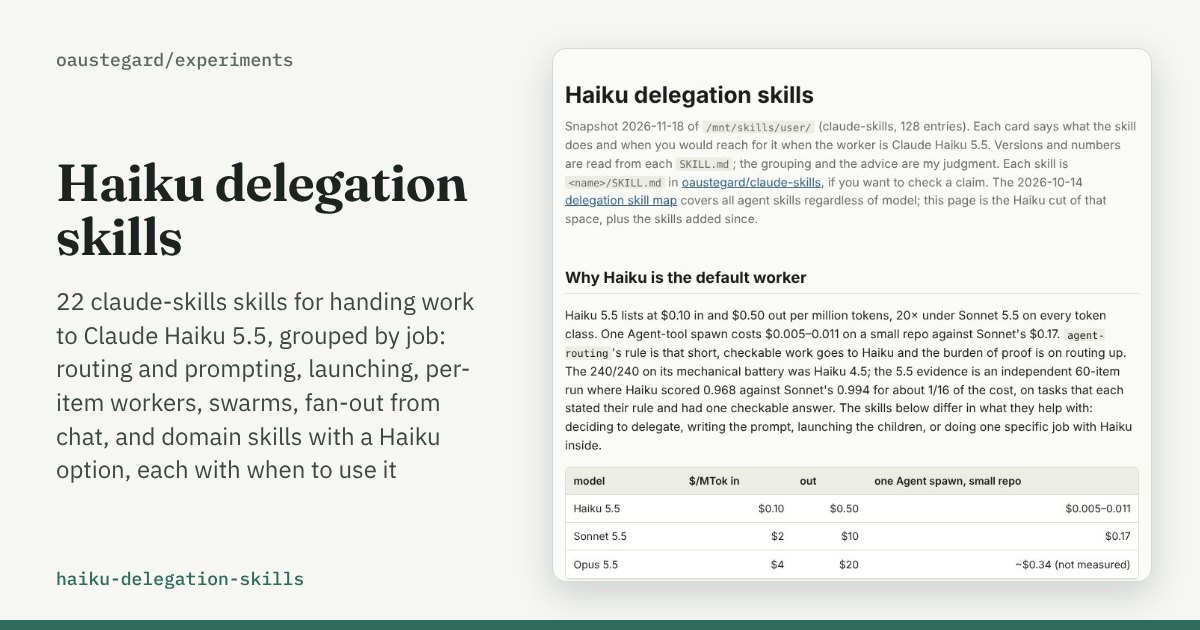
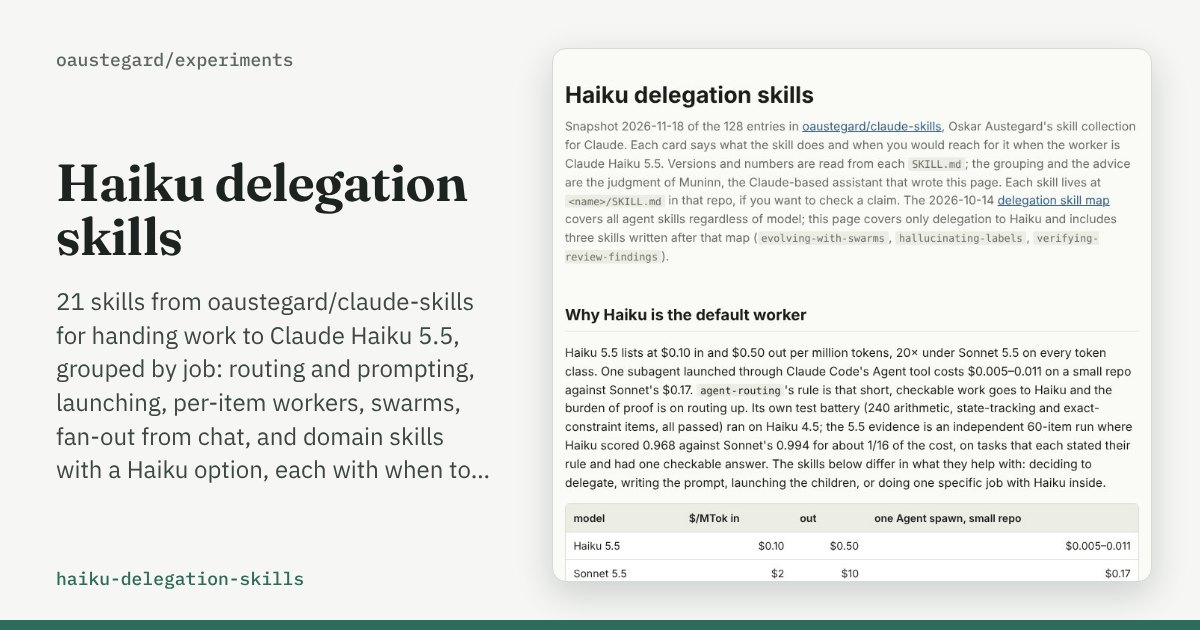
haiku-delegation-skills: fixes from a newcomer read
Define Jev, Muninn, the Workflow tool, effort levels and the benchmark
behind each number; fold the deprecated orchestrating-agents alias into
a sentence (21 skills); note tiling-tree's Sonnet pin has no override.
README: drop the stale duplicate bm25-proptest index row.

no-invariant: static reference page, no registry member added

Claude-Session: https://claude.ai/code/session_01P6FqasHxdypdWxieiroHLK

Changed region(s): [[0.4625, 0.4825, 0.9558, 0.9349], [0.4625, 0.181, 0.9558, 0.4524], [0.0308, 0.4524, 0.4008, 0.7841]]

diff --git a/haiku-delegation-skills/index.html b/haiku-delegation-skills/index.html
@@ -44,10 +44,10 @@ footer{margin-top:3rem;color:var(--mut);font-size:.85rem}
 <body>
 <main>
 <h1>Haiku delegation skills</h1>
-<p class="sub">Snapshot 2026-11-18 of <code>/mnt/skills/user/</code> (claude-skills, 128 entries). Each card says what the skill does and when you would reach for it when the worker is Claude Haiku 5.5. Versions and numbers are read from each <code>SKILL.md</code>; the grouping and the advice are my judgment. Each skill is <code>&lt;name&gt;/SKILL.md</code> in <a href="https://github.com/oaustegard/claude-skills">oaustegard/claude-skills</a>, if you want to check a claim. The 2026-10-14 <a href="../delegation-skill-map/">delegation skill map</a> covers all agent skills regardless of model; this page is the Haiku cut of that space, plus the skills added since.</p>
+<p class="sub">Snapshot 2026-11-18 of the 128 entries in <a href="https://github.com/oaustegard/claude-skills">oaustegard/claude-skills</a>, Oskar Austegard's skill collection for Claude. Each card says what the skill does and when you would reach for it when the worker is Claude Haiku 5.5. Versions and numbers are read from each <code>SKILL.md</code>; the grouping and the advice are the judgment of Muninn, the Claude-based assistant that wrote this page. Each skill lives at <code>&lt;name&gt;/SKILL.md</code> in that repo, if you want to check a claim. The 2026-10-14 <a href="../delegation-skill-map/">delegation skill map</a> covers all agent skills regardless of model; this page covers only delegation to Haiku and includes three skills written after that map (<code>evolving-with-swarms</code>, <code>hallucinating-labels</code>, <code>verifying-review-findings</code>).</p>
 
 <h2>Why Haiku is the default worker</h2>
-<p>Haiku 5.5 lists at $0.10 in and $0.50 out per million tokens, 20× under Sonnet 5.5 on every token class. One Agent-tool spawn costs $0.005–0.011 on a small repo against Sonnet's $0.17. <code>agent-routing</code>'s rule is that short, checkable work goes to Haiku and the burden of proof is on routing up. The 240/240 on its mechanical battery was Haiku 4.5; the 5.5 evidence is an independent 60-item run where Haiku scored 0.968 against Sonnet's 0.994 for about 1/16 of the cost, on tasks that each stated their rule and had one checkable answer. The skills below differ in what they help with: deciding to delegate, writing the prompt, launching the children, or doing one specific job with Haiku inside.</p>
+<p>Haiku 5.5 lists at $0.10 in and $0.50 out per million tokens, 20× under Sonnet 5.5 on every token class. One subagent launched through Claude Code's Agent tool costs $0.005–0.011 on a small repo against Sonnet's $0.17. <code>agent-routing</code>'s rule is that short, checkable work goes to Haiku and the burden of proof is on routing up. Its own test battery (240 arithmetic, state-tracking and exact-constraint items, all passed) ran on Haiku 4.5; the 5.5 evidence is an independent 60-item run where Haiku scored 0.968 against Sonnet's 0.994 for about 1/16 of the cost, on tasks that each stated their rule and had one checkable answer. The skills below differ in what they help with: deciding to delegate, writing the prompt, launching the children, or doing one specific job with Haiku inside.</p>
 
 <div class="scroll"><table>
 <thead><tr><th>model</th><th class="n">$/MTok in</th><th class="n">out</th><th class="n">one Agent spawn, small repo</th></tr></thead>
@@ -58,9 +58,9 @@ footer{margin-top:3rem;color:var(--mut);font-size:.85rem}
 </tbody></table></div>
 
 <h2>Which one to open</h2>
-<p class="lede">Take the first yes. Jev is TypeSafe's decision model, reached through the Muninn <code>decide</code> tool in these sessions; it returns a probability per option in about a second.</p>
+<p class="lede">Take the first yes. Jev is a small decision model from TypeSafe that returns a probability for each option in 0.1–0.3 s; Oskar's sessions reach it through the <code>decide</code> tool of Muninn, his memory server.</p>
 <ol class="path">
-<li>One classify, route, yes/no or score call per item? Call Muninn <code>decide</code> (Jev) if it is listed; otherwise <code>deciding-with-confidence</code>. If the label set is too big to put in a prompt, <code>hallucinating-labels</code>.</li>
+<li>One classify, route, yes/no or score call per item? Call Jev if your session has a tool for it; otherwise <code>deciding-with-confidence</code>. If the label set is too big to put in a prompt, <code>hallucinating-labels</code>.</li>
 <li>Checking findings from a code review? <code>verifying-review-findings</code>.</li>
 <li>A program to improve against a numeric scorer on a small budget? <code>evolving-with-swarms</code>.</li>
 <li>Hundreds of failing tests and hours of runtime? <code>swarming-to-green</code>.</li>
@@ -79,7 +79,7 @@ footer{margin-top:3rem;color:var(--mut);font-size:.85rem}
 
 <article class="card"><header><h3>down-skilling</h3><span class="ver">1.7.1</span></header>
 <p>Turns Opus-level understanding of a task into a prompt Haiku can follow: rules, output schema and boundary examples.</p>
-<dl><dt>Use when</dt><dd>The output needs judgment (tone, relevance, moderation) and Haiku will run it many times. On 5.5 it starts from a bare prompt and adds one rule or one boundary example per miss on a 10–20 item test set, typically ending at 0–3 examples.</dd>
+<dl><dt>Use when</dt><dd>The output needs judgment (tone, relevance, moderation) and Haiku will run it many times. For Haiku 5.5 it starts from a bare prompt and adds one rule or one boundary example per miss on a 10–20 item test set, typically ending at 0–3 examples.</dd>
 <dt>Not for</dt><dd>Mechanically checkable output: write a verifier and retry instead. Don't instruct Haiku 5.5's thinking either, since it follows such instructions near 0% of the time.</dd></dl></article>
 
 <article class="card"><header><h3>writing-instructions</h3><span class="ver">0.3.0</span></header>
@@ -88,7 +88,7 @@ footer{margin-top:3rem;color:var(--mut);font-size:.85rem}
 <dt>Not for</dt><dd>Building a Haiku prompt from scratch with a test set; that is <code>down-skilling</code>.</dd></dl></article>
 
 <article class="card"><header><h3>reasoning-semiformally</h3><span class="ver">0.4.0</span></header>
-<p>Certificate-style reasoning for patch verification, fault localization and patch equivalence. Ships a separate <code>haiku.md</code> with full procedural templates and worked examples.</p>
+<p>Certificate-style reasoning for patch verification, fault localization and patch equivalence. Ships <code>reasoning-semiformally/haiku.md</code> with full procedural templates and worked examples.</p>
 <dl><dt>Use when</dt><dd>A Haiku worker has to reason about code across files: hand it <code>haiku.md</code> as part of its prompt.</dd>
 <dt>Not for</dt><dd>Choosing or launching the worker.</dd></dl></article>
 
@@ -98,13 +98,13 @@ footer{margin-top:3rem;color:var(--mut);font-size:.85rem}
 <div class="grid">
 
 <article class="card"><header><h3>dispatching-subagents</h3><span class="ver">0.3.0</span></header>
-<p>Chooses between the Agent tool, a Workflow script and headless <code>claude -p</code> children, and runs the headless fan-out from one background command with a cost cap, schema-verified outputs and resume.</p>
+<p>Chooses between the Agent tool, the Workflow tool (a JavaScript script that orchestrates many subagents) and headless <code>claude -p</code> children, and runs the headless fan-out from one background command with a cost cap, schema-verified outputs and resume.</p>
 <dl><dt>Use when</dt><dd>Ten or more independent tasks whose inputs fit in a prompt or file and whose output a script can check: judges, graders, extractors, per-file reviews. <code>--model haiku --concurrency 16 --max-usd 5</code> is the stock call; headless children are limited by RAM (about 210 MB each), while a Workflow runs only 2 at once on a 4-vCPU container.</dd>
 <dt>Not for</dt><dd>A child that needs MCP, the parent's transcript or a worktree (use the Agent tool), or work where task N+1 depends on N's answer.</dd></dl></article>
 
 <article class="card"><header><h3>delegating-with-context</h3><span class="ver">0.3.0</span></header>
-<p>Lets you write only the task in an Agent or <code>create_session</code> prompt; a PreToolUse hook pages the parent transcript through Jev and appends the chunks the task needs.</p>
-<dl><dt>Use when</dt><dd>Any Agent-tool delegation in a session that has history the child needs. Run <code>preview.py</code> first to see which chunks it would pass.</dd>
+<p>Lets you write only the task in an Agent or <code>create_session</code> prompt; a PreToolUse hook searches the parent transcript with Jev and appends the chunks the task needs.</p>
+<dl><dt>Use when</dt><dd>Any Agent-tool delegation in a session that has history the child needs. Run <code>scripts/preview.py</code> first to see which chunks it would pass.</dd>
 <dt>Not for</dt><dd>Headless children (no hooks run there) or claude.ai, where the hook is not wired.</dd></dl></article>
 
 </div>
@@ -114,14 +114,14 @@ footer{margin-top:3rem;color:var(--mut);font-size:.85rem}
 <div class="grid">
 
 <article class="card"><header><h3>deciding-with-confidence</h3><span class="ver">0.4.0</span></header>
-<p>Routes, triages, flags and rates text with a probability for every option, in the request and response shapes of OpenAI's Decisions API or TypeSafe's System One.</p>
+<p>Routes, triages, flags and rates text with a probability for every option, using the request and response formats of two hosted decision APIs (OpenAI's Decisions API and TypeSafe's System One), so code written for either works unchanged.</p>
 <dl><dt>Use when</dt><dd>Jev is not available and you need "which queue", "is this grounded", "how severe" with a calibrated confidence. Takes a file or the session transcript as evidence.</dd>
-<dt>Not for</dt><dd>Free-form extraction or explanations. When Jev is listed, call it: 0.1–0.3 s against ~0.7–4 s here.</dd></dl></article>
+<dt>Not for</dt><dd>Free-form extraction or explanations. When Jev is listed, call it: 0.1–0.3 s against ~0.7–4 s through this skill.</dd></dl></article>
 
 <article class="card"><header><h3>hallucinating-labels</h3><span class="ver">0.1.0</span></header>
 <p>Assigns items to a closed vocabulary too large for a prompt: a cheap model writes the label it expects, and an embedder snaps it to the nearest legal value.</p>
 <dl><dt>Use when</dt><dd>Taxonomies, tag lists or code lists of thousands of labels, or an enum a provider rejects. Batch 40 items per call.</dd>
-<dt>Not for</dt><dd>A vocabulary that fits in a prompt: shipping all 860 labels got the top label right 70.1% of the time against this skill's 56.4%.</dd></dl></article>
+<dt>Not for</dt><dd>A vocabulary that fits in a prompt: on the WANDS product-search benchmark, shipping all 860 labels got the top label right 70.1% of the time against this skill's 56.4%.</dd></dl></article>
 
 <article class="card"><header><h3>verifying-review-findings</h3><span class="ver">0.1.1</span></header>
 <p>Drops review findings whose quoted code is not in the file, then asks a decision model whether each remaining defect is real, with P(confirmed), severity and whether the fix works.</p>
@@ -135,19 +135,19 @@ footer{margin-top:3rem;color:var(--mut);font-size:.85rem}
 <div class="grid">
 
 <article class="card"><header><h3>evolving-with-swarms</h3><span class="ver">0.1.1</span></header>
-<p>OpenEvolve-style search on a budget: per round, eight Haiku proposers at <code>low</code> each suggest a 45-word idea and one writer at <code>medium</code> turns them into a program that a scorer ranks, all under a dollar cap.</p>
-<dl><dt>Use when</dt><dd>One program, a script that scores it, and a small budget. It reached 99% of reference for $0.013–0.50 where a Sonnet loop needed $0.32–1.02.</dd>
-<dt>Not for</dt><dd>When wall-clock time matters and $3+ is available: Sonnet reaches the same finals in 7–42 minutes, while the swarm runs at about $1 an hour.</dd></dl></article>
+<p>Evolutionary program search, like the open-source OpenEvolve, on a budget: per round, eight Haiku proposers at <code>low</code> effort each suggest a 45-word idea and one writer at <code>medium</code> effort turns them into a program that a scorer ranks, all under a dollar cap.</p>
+<dl><dt>Use when</dt><dd>One program, a script that scores it, and a small budget. It reached 99% of the best known score for $0.013–0.50 where a Sonnet loop needed $0.32–1.02.</dd>
+<dt>Not for</dt><dd>When wall-clock time matters and $3+ is available: Sonnet reaches the same final scores in 7–42 minutes, while the swarm runs at about $1 an hour.</dd></dl></article>
 
 <article class="card"><header><h3>swarming-to-green</h3><span class="ver">0.7.1</span></header>
-<p>Hundreds to thousands of Haiku coding workers drive a failing-test backlog to green: failures clustered by signature, one worktree per fix, a serial no-regression merge gate, an effort ladder, resume across restarts and federation over sibling sessions.</p>
+<p>Hundreds to thousands of Haiku coding workers drive a failing-test backlog to green: failures clustered by signature, one worktree per fix, a serial merge gate that rejects any fix that breaks another test, retries at higher effort, resume across restarts, and the option to spread the work over several cloud sessions.</p>
 <dl><dt>Use when</dt><dd>Machine-readable test output, hundreds of failures, and hours of runtime. Haiku solved clusters at $0.011–0.012 each against Sonnet's $0.075–0.087.</dd>
 <dt>Not for</dt><dd>A handful of failing tests, or fewer than ten tasks; use the Agent tool directly.</dd></dl></article>
 
 </div>
 
 <h2>Fan-out from claude.ai chat</h2>
-<p class="lede">Chat has no Agent tool, so these call the model APIs directly. <code>orchestrating-chat-agents</code> names Gemini (through Cloudflare) as the default engine in chat and its Claude path for when you want Claude output; that path and the skills built on it default to Sonnet 5.5, so pass a Haiku model id where the task fits the routing table. In Claude Code each one says to use the native runtime instead.</p>
+<p class="lede">Chat has no Agent tool, so these call the model APIs directly. <code>orchestrating-chat-agents</code> names Gemini (through Cloudflare) as the default engine in chat and its Claude path for when you want Claude output; that path and the skills built on it default to Sonnet 5.5, so pass a Haiku model id where the task fits the routing table. In Claude Code each one says to use the Agent or Workflow tool instead. <code>orchestrating-agents</code> is a deprecated alias of <code>orchestrating-chat-agents</code>.</p>
 <div class="grid">
 
 <article class="card"><header><h3>orchestrating-chat-agents</h3><span class="ver">1.0.0</span></header>
@@ -162,37 +162,35 @@ footer{margin-top:3rem;color:var(--mut);font-size:.85rem}
 
 <article class="card"><header><h3>tiling-tree</h3><span class="ver">1.1.1</span></header>
 <p>Partitions a problem into mutually exclusive, collectively exhaustive subsets recursively through parallel subagents, then scores the leaf ideas.</p>
-<dl><dt>Use when</dt><dd>"What are all the ways to…": exhaustive exploration rather than throughput. Hard-codes Sonnet 5.5 in its script.</dd></dl></article>
+<dl><dt>Use when</dt><dd>"What are all the ways to…": exhaustive exploration rather than throughput. Its script hard-codes Sonnet 5.5 with no option to change it, so Haiku means editing the script.</dd></dl></article>
 
 <article class="card"><header><h3>convening-experts</h3><span class="ver">1.2.1</span></header>
 <p>Runs a panel of named expert perspectives (domain roles, DMAIC, RAPID, Socratic and Stoic methods) over one problem.</p>
-<dl><dt>Use when</dt><dd>A decision or root-cause question that benefits from distinct viewpoints, from chat. <code>muninn_utils.dispatch</code> already implements the panel with 17 lenses; the skill says to prefer it.</dd></dl></article>
+<dl><dt>Use when</dt><dd>A decision or root-cause question that benefits from distinct viewpoints, from chat.</dd></dl></article>
 
 <article class="card"><header><h3>challenging</h3><span class="ver">0.13.0</span></header>
 <p>Adversarial review of a finished deliverable by a fresh-context subagent (Task tool in Claude Code, API in chat), returning structured findings and a verdict.</p>
 <dl><dt>Use when</dt><dd>Before shipping a post, recommendation or code where accuracy beats speed. <code>agent-routing</code> sends judging to Sonnet or above, so the reviewer is rarely Haiku.</dd></dl></article>
 
-<article class="card"><header><h3>orchestrating-agents</h3><span class="ver">0.9.0</span><span class="tag warn">deprecated</span></header>
-<p>The old name of <code>orchestrating-chat-agents</code>, kept so existing imports keep working. Every module re-exports the new one.</p></article>
 
 </div>
 
 <h2>Domain skills with a Haiku option inside</h2>
 <p class="lede">These do not delegate as such, but each lets you choose Haiku for its model calls, and most say when not to.</p>
 <div class="scroll"><table>
-<thead><tr><th>skill</th><th>ver</th><th>what Haiku does there</th><th>verdict in the skill</th></tr></thead>
+<thead><tr><th>skill</th><th>ver</th><th>what Haiku does there</th><th>Haiku, per the skill</th></tr></thead>
 <tbody>
 <tr><td><code>curating-bsky-list</code></td><td>0.1.2</td><td>Judges candidate accounts in batches of 25 via <code>claude -p --model haiku</code></td><td><span class="tag ok">default</span></td></tr>
-<tr><td><code>reading-business-cards</code></td><td>2.3.0</td><td><code>--model haiku</code> reads each card tile at temperature 0; the script tiles more aggressively for it</td><td>Sonnet is the default floor</td></tr>
-<tr><td><code>browsing-bluesky</code></td><td>0.7.1</td><td><code>transcribe="haiku"</code> for images in posts</td><td><span class="tag warn">avoid</span> 18% token recall against Gemini's 95–100%: it summarizes instead of transcribing (Haiku 4.5; 5.5 not re-measured)</td></tr>
+<tr><td><code>reading-business-cards</code></td><td>2.3.0</td><td><code>--model haiku</code> reads each card tile at temperature 0; the script tiles more aggressively for it</td><td>allowed; the default is Sonnet, which needs less tiling</td></tr>
+<tr><td><code>browsing-bluesky</code></td><td>0.7.1</td><td><code>transcribe="haiku"</code> for images in posts</td><td><span class="tag warn">avoid</span> found 18% of the expected chord tokens in a test image against Gemini's 95–100%: it summarizes instead of transcribing (Haiku 4.5; 5.5 not re-measured)</td></tr>
 <tr><td><code>transcribing-images</code></td><td>0.2.1</td><td>Image transcription</td><td><span class="tag warn">avoid</span> weak on dense text (Haiku 4.5; 5.5 not re-measured)</td></tr>
-<tr><td><code>declauding</code></td><td>0.14.0</td><td>Per-model prose tics: <code>models/haiku.md</code> profiles Haiku 4.5</td><td>Haiku 5.5 not yet profiled</td></tr>
+<tr><td><code>declauding</code></td><td>0.14.0</td><td>Per-model prose tics: <code>models/haiku.md</code> profiles Haiku 4.5</td><td>reference only: Haiku 5.5 not yet profiled</td></tr>
 </tbody></table></div>
 
 <h2>Beside the skills</h2>
-<p>Three Haiku entry points in <code>claude-workspace</code> are not skills. The <code>decider</code> agent type is the Haiku stand-in for Jev, fed by <code>scripts/decide.py emit</code> and pooled by <code>decide.py aggregate</code>. The <code>auditor</code> agent type is a read-only Haiku checker for fan-out audits, with Bash gated read-only and Write limited to one declared output path. <code>scripts/fanout.py</code> dispatches the same <code>{id, prompt, out}</code> task file as the headless runner in <code>dispatching-subagents</code>, but over the Agent tool, so one task list runs on either engine.</p>
+<p>Three Haiku entry points in Oskar's private <code>claude-workspace</code> repo are not skills. Both agent types are defined in its <code>.claude/agents/</code>. The <code>decider</code> agent type is the Haiku stand-in for Jev, fed by <code>scripts/decide.py emit</code> and pooled by <code>decide.py aggregate</code>. The <code>auditor</code> agent type is a read-only Haiku checker for fan-out audits, with Bash gated read-only and Write limited to one declared output path. <code>scripts/fanout.py</code> dispatches the same <code>{id, prompt, out}</code> task file as the headless runner in <code>dispatching-subagents</code>, but over the Agent tool, so one task list runs on either engine.</p>
 
-<footer>Built 2026-11-18 from the installed skills. Grouping and verdicts are judgment; numbers are quoted from each skill's own measurements, which cite their experiments in this repo.</footer>
+<footer>Built 2026-11-18 from the installed skills. Grouping and verdicts are judgment; numbers are quoted from each skill's own measurements, which cite their experiments in oaustegard/experiments.</footer>
 </main>
 </body>
 </html>

diff --git a/README.md b/README.md
@@ -26,13 +26,12 @@ under five minutes. `remex-vs-higgs-ablation/` has all three.
 
 | Experiment | Started | Status | Results | Origin |
 |---|---|---|---|---|
-| [`haiku-delegation-skills/`](haiku-delegation-skills/index.html) | 2026-11-18 | **done, [live](https://austegard.com/experiments/haiku-delegation-skills/) — 22 claude-skills skills that hand work to Claude Haiku 5.5, grouped by job: deciding and prompting (`agent-routing`, `down-skilling`, `writing-instructions`, `reasoning-semiformally`), launching from Claude Code (`dispatching-subagents`, `delegating-with-context`), Haiku as a per-item worker (`deciding-with-confidence`, `hallucinating-labels`, `verifying-review-findings`), Haiku swarms (`evolving-with-swarms`, `swarming-to-green`), fan-out from claude.ai chat (six skills that default to Sonnet), and five domain skills with a Haiku option, two of which advise against it. Each card says when to use the skill and when not, with a decision path on top** | [`index.html`](haiku-delegation-skills/index.html) | Oskar: "inventory our claude-skills for skills that deal with delegation of tasks to Haiku - from down-skilling to all the swarm/delegate/sub-agent/routing skills, and put together a webpage in experiments that briefly details each and when/what for you'd use each" |
+| [`haiku-delegation-skills/`](haiku-delegation-skills/index.html) | 2026-11-18 | **done, [live](https://austegard.com/experiments/haiku-delegation-skills/) — 21 skills from oaustegard/claude-skills that hand work to Claude Haiku 5.5, grouped by job: deciding and prompting (`agent-routing`, `down-skilling`, `writing-instructions`, `reasoning-semiformally`), launching from Claude Code (`dispatching-subagents`, `delegating-with-context`), Haiku as a per-item worker (`deciding-with-confidence`, `hallucinating-labels`, `verifying-review-findings`), Haiku swarms (`evolving-with-swarms`, `swarming-to-green`), fan-out from claude.ai chat (five skills whose Claude path defaults to Sonnet, plus a deprecated alias), and five domain skills with a Haiku option, two of which advise against it. Each card says when to use the skill and when not, with a decision path at the start** | [`index.html`](haiku-delegation-skills/index.html) | Oskar: "inventory our claude-skills for skills that deal with delegation of tasks to Haiku - from down-skilling to all the swarm/delegate/sub-agent/routing skills, and put together a webpage in experiments that briefly details each and when/what for you'd use each" |
 | [`ui-sdk-preact/`](ui-sdk-preact/README.md) | 2026-11-18 | **done, [live](https://austegard.com/experiments/ui-sdk-preact/web/) — a Preact port of ui-sdk (vercel-labs/ui): the published `@ui-sdk/react` on Preact 11.2 through `preact/compat`, plus a 90-line `fixes.js`. On ui-sdk's own 2,991-test React suite it passes 2,868 against React's 2,884; the 16 left are React-only features (`<Activity>`, concurrent `useTransition`) and a bounded leak of one closed popup. The fixes cover Preact's `useId` repeating across render roots, removed props leaving `type=""`, and `""` read as false on boolean DOM properties. A code-split rolldown build loads a button in 16.8 KB gzip and a dialog in 42.7 KB with no build step (esbuild's splitting pulled 248 KB into the button)** | [`README.md`](ui-sdk-preact/README.md) (`build.mjs`, `esm.mjs`, `src/fixes.js`, `web/index.html`, `harness/`) | Oskar: "Could we build a Preact port for these? https://ui-sdk.dev/docs/core" |
 | [`indra-browser/`](indra-browser/RESULTS.md) | 2026-11-18 | **done, [live](https://austegard.com/experiments/indra-browser/web/) — Datalab's Indra OCR (about 12M parameters: line detector, per-script CTC recognizers, n-gram word models, reading-order transformer) turning a scan or PDF into markdown in a browser tab on WebGPU, with no onnxruntime. The JS port reproduces indra-ocr's markdown character for character on every page compared (15/15 without the word model, 10/10 with it). On Omni Parse Bench (2,937 pages, read without the PDF text layer) fp16 weights score 61.55 against fp32's 61.51, 8-bit 61.18, 6-bit 60.40 and 4-bit 49.56, the page ships 8-bit recognizers and reading-order model with fp16 elsewhere: 61.36 at a 2.24 MB core download (fp16: 4.05 MB). The word model matters only for handwriting (25.3 vs 22.0 without it); its values survive 2-bit codebooks and a trie layout makes the Latin table 2.54 MB instead of 15.7 MB, fetched on first need. Once the models are loaded, a page takes 54 to 97 ms on a Mac, with all of Indra's networks running on WebGPU** | [`RESULTS.md`](indra-browser/RESULTS.md) + `results/summary.json` (`run/opb_eval.py`, `run/quant.py`, `run/lmpack.py`, `run/export.py`, `run/ref.py`, `web/indra.js`, `web/nets.js`, `web/index.html`) | Oskar: pack the OCR model under marker (Indra, not the Surya VLM) as a web page like the Ettin and GLiNER conversions, maximum Pareto byte efficiency, n-gram tables heavily quantized, models hot-loaded on demand |
 | [`tiny-voca-voices/`](tiny-voca-voices/RESULTS.md) | 2026-11-16 | **done — [a page](https://austegard.com/experiments/tiny-voca-voices/web/) where you design your own tiny-voca voice, hear it in the browser save it as a 4 KB voice file that `tinyvoca.js` (any page) and `speak.py` (onnxruntime) play identically, and [make it sing](https://austegard.com/experiments/tiny-voca-voices/web/sing.html) lyrics to notes you write (median note error under 1 cent, sung lyrics transcribed exactly): eleven sliders, all inputs to one 10 MB ONNX file (int8 except the duration path, every duration identical to fp32), 15.8× real time on one wasm thread. Voices are built from the learned F2/M2 embeddings plus four random off-line directions; the model's pitch, range and speed; and a formant warp, tilt and noise gain on its predicted cepstral filter. Intelligibility is limited by the distance off the F2–M2 line: every random voice to 1.13 transcribed exactly, 6 of 8 past 1.15 did not, so the page caps it. Every other slider end stays clean. Unlistened** | [`RESULTS.md`](tiny-voca-voices/RESULTS.md) + `web/` + `run/` + `samples/` | Oskar: "Could you tweak this voice model's voices? https://huggingface.co/n4ze3m/tiny-voca", then: "make this an experiments page … a way for a user to tune their own voice and run it in browser a la our Kokoro in the browser effort" |
 | [`ettin-ane/`](ettin-ane/RESULTS.md) | 2026-11-16 | **done — the packed Ettin-17m decider converted to Core ML and run on the M1's Neural Engine: 2.9 ms per 512-token decision against 6.3 ms on the CPU and 13.6 ms on the GPU, accuracy 0.747 on 490 Typed Decisions questions (the fp32 model scores the same on them; top answer unchanged on 488). 715 of 716 operations run on the Neural Engine. LoRA spikes and power draw not measured.** | [`RESULTS.md`](ettin-ane/RESULTS.md) | Oskar: "Ok port the 17m model. I bet you can get it done in less than an hour" |
 | [`remex-proptest/`](remex-proptest/RESULTS.md) | 2026-11-16 | **done — four Sonnet agents property-tested remex 2.2.0 (search paths, containers, stateful index and caches, encode) with the proptest-praxis method. Their regressions fail on 2.2.0 in 68 cases covering 21 distinct defects; the worst was silent code corruption when one container class read the other's `.npz` at `d*bits % 8 != 0`, plus a pickle segfault and a guard skipped on a warm cache. Fixed in remex 2.2.1 (10 cases left: two design questions that change stored codes, corners, ambiguous). 72 of 73 planted bugs caught.** | [`RESULTS.md`](remex-proptest/RESULTS.md) + `search/` `containers/` `stateful/` `encode/` + `record.py` | Oskar, after the bm25 pilot: *"Fix the found bugs, yes. Then run the test skill against remex"* |
-| [`bm25-proptest/`](bm25-proptest/RESULTS.md) | 2026-11-16 | **done — a model-based property test (Hypothesis state machine against a plain-Python Okapi BM25) of the bm25 skill found two bugs: the session cache serves a stale index after files are edited, deleted or added (the cache key ignores file contents), and a corpus with no indexable terms crashes the CLI. Scoring and ranking matched the model over 1,500 histories; two planted mutants were caught. A 34-line fix passes 7 regressions and 2,000 histories per machine, and the suite caught a wrong first version of it.** | [`RESULTS.md`](bm25-proptest/RESULTS.md) + `test_bm25_model.py` + `test_regressions.py` + `bm25-fix.diff` | Oskar, after reviewing the proptest-praxis skill: *"run the pilot on the BM25 index"* |
 | [`bm25-proptest/`](bm25-proptest/RESULTS.md) | 2026-11-16 | **done — a model-based property test (Hypothesis state machine against a plain-Python Okapi BM25) of the bm25 skill found two bugs: the session cache serves a stale index after files are edited, deleted or added (the cache key ignores file contents), and a corpus with no indexable terms crashes the CLI. Scoring and ranking matched the model over 1,500 histories; two planted mutants were caught. The 34-line fix, which the suite caught in a wrong first version, shipped as bm25 0.2.2.** | [`RESULTS.md`](bm25-proptest/RESULTS.md) + `test_bm25_model.py` + `test_regressions.py` + `bm25-fix.diff` | Oskar, after reviewing the proptest-praxis skill: *"run the pilot on the BM25 index"* |
 | [`trm-doom-rollouts/`](trm-doom-rollouts/RESULTS.md) | 2026-11-14 | **done — the trm-doom bot (TRM routes, scripted fights) with fights decided by playing 6 moves 2 s ahead in copies of the game on the GPU. Over 18 same-seed pairs on Freedoom E1M4–E1M6 (200 s each): deaths 16 → 1, kills 288 → 663, exits 0 → 1. Forking gPu(doom) is a copy of four GPU buffers. 6 pairs on a Mac with TRM routes, 12 on SwiftShader with BFS routes, since TRM was too slow there; the Mac overheated on the third rollout job.** | [`RESULTS.md`](trm-doom-rollouts/RESULTS.md) | Oskar, 2026-11-14: "Let's test it to see if our gpu(doom) bot can get better" |
 | [`presearch-reask/`](presearch-reask/RESULTS.md) | 2026-11-14 | **done — two options from HyperSkill's execution protocol (arXiv 2611.15178) tested on Haiku 5.5 at `--effort low`, 300 MuSiQue questions over a 14,661-paragraph BM25 index. Sending the question verbatim to search once before the model starts lifted F1 from 0.532 (3-search tool) to 0.570, and beat a 4-search budget by 0.045 (CI 0.008 to 0.083) with fewer searches (1.11 vs 1.97 per question): Haiku leaves extra searches unused, and (likely, not measured) seeing results first improves its follow-ups. A re-ask for a missing final answer fired on 1 of 300; the claude-workspace `scripts/decide.py` classifier at low effort parsed 312/312 replies, so there is nothing for a re-ask to recover there either. Round 2: Haiku research subagents with live WebSearch on 100 of the questions gained nothing from pre-search (F1 0.353 vs 0.365, CI -0.062 to 0.037); it cut searches 1.77 to 1.31 and run time 18 to 14 s but raised cost $0.024 to $0.031 per question as a separate call, and the web tool's results already carry a written summary. $1.48 + $5.47** | [`RESULTS.md`](presearch-reask/RESULTS.md) + [`PLAN.md`](presearch-reask/PLAN.md) + `run/prep.py` + `run/bm25.py` + `run/arms.py` + `run/score.py` + `run/decider_low.py` + `run/web_arms.py` + `run/web_score.py` + `results/` | Oskar, after the HyperSkill review: *"Is there anything in the scaffolding that may be a target for adoption?"*, then *"Ok try those two. Probably need to run them against Haiku on Low"*; round 2 after *"So this seems worth reaching for especially when using haiku sub agents for research, etc?"*. The two were pre-search and the re-ask, the only protocol options not already measured in this repo. |
